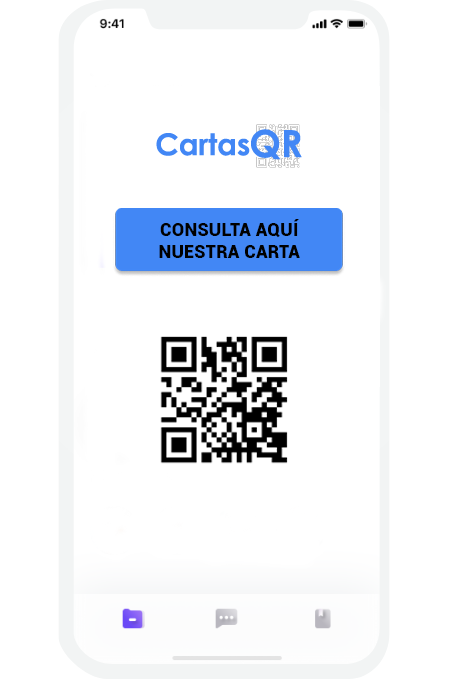
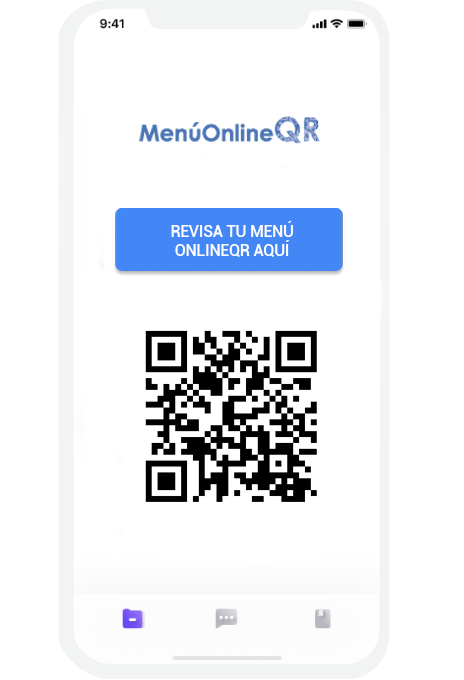
actualizado 2205

Changed region(s): [[0.3017, 0.4632, 0.694, 0.7412], [0.3319, 0.3088, 0.6638, 0.4015], [0.3017, 0.1544, 0.694, 0.2471]]

diff --git a/index.html b/index.html
@@ -13,10 +13,10 @@
     <meta name="robots" content="index, follow">
     <meta name="keywords"
         content="Cartas digitales, Menús digitales, restaurantes y bares con qr, cartas online, menús online, código qr">
-    <meta name="author" content="CartasQR">
+    <meta name="author" content="MenúOnlineQR">
     <link rel="shortcut icon" type="image/x-icon" href="./img/7205qr.ico">
 
-    <title>CartaQR | Tu Carta digital</title>
+    <title>MenúOnlineQR | Tu Menú Online</title>
 
     <!-- CSS here -->
     <link rel="stylesheet" href="css/bootstrap.min.css">
@@ -40,7 +40,7 @@
                         <div class="col-xl-3 col-lg-2">
                             <div class="logo">
                                 <a href="index.html">
-                                    <img src="img/logo.png" alt="CartasQR">
+                                    <img src="img/logo.png" alt="MenúOnlineQR">
                                 </a>
                             </div>
                         </div>
@@ -88,7 +88,7 @@
                     </div>
                     <div class="col-xl-5 col-md-6">
                         <div class="phone_thumb wow fadeInDown" data-wow-duration="1.1s" data-wow-delay=".2s">
-                            <img src="img/ilstrator/phone.png" alt="CartasQR">
+                            <img src="img/ilstrator/phone.png" alt="MenúOnlineQR">
                         </div>
                     </div>
                 </div>
@@ -104,13 +104,13 @@
                 <div class="row align-items-center">
                     <div class="col-xl-5 col-lg-5 col-md-6">
                         <div class="features_info2">
-                            <h3>Tu <strong>Carta QR</strong> siempre actualizada.</h3>
-                            <p><strong>CartasQR</strong> hace posible de una forma ágil y sencilla la lectura y
+                            <h3>Tu <strong>Menú OnlineQR</strong> siempre actualizado.</h3>
+                            <p><strong>Menú OnlineQR</strong> hace posible de una forma ágil y sencilla la lectura y
                                 visualización de los menús desde los propios dispositivos móviles de los clientes a
                                 través de un QR. Cumplimos con la normativa relacionada con la <strong>prohibición de
                                     disponer de cartas físicas en el local</strong>.</p>
                             <div class="about_btn">
-                                <a class="boxed-btn4" href="contacto.html">Obtén tu Carta QR</a>
+                                <a class="boxed-btn4" href="contacto.html">Obtén tu Menú OnlineQR</a>
                             </div>
                         </div>
                     </div>
@@ -126,20 +126,20 @@
                     <div class="col-xl-5 col-lg-5 offset-xl-1 offset-lg-1 col-md-6">
                         <div id="conocer" class="about_image wow fadeInLeft" data-wow-duration=".4s"
                             data-wow-delay=".3s">
-                            <img src="img/ilstrator/phone.png" alt="Carta QR">
+                            <img src="img/ilstrator/phone.png" alt="MenúOnlineQR">
                         </div>
                     </div>
                     <div class="col-xl-6 col-lg-6 col-md-6">
                         <div class="features_info">
                             <h3 class="wow fadeInUp" data-wow-duration=".5s" data-wow-delay=".3s">Beneficios</h3>
                             <p class="wow fadeInUp" data-wow-duration=".6s" data-wow-delay=".4s">Podrás mostrar con un
-                                código QR tu carta sin necesidad de una carta física. Aplica para restaurantes, bares,
+                                código QR tu menú sin necesidad de una carta física. Aplica para restaurantes, bares,
                                 hoteles, cafeterías o heladerías. </p>
                             <ul>
                                 <li class="wow fadeInUp" data-wow-duration=".7s" data-wow-delay=".5s">Olvídate de los
-                                    errores/erratas en tu Carta QR.</li>
-                                <li class="wow fadeInUp" data-wow-duration=".8s" data-wow-delay=".6s">Tu Carta siempre
-                                    actualizada.</li>
+                                    errores/erratas en tu Menú OnlineQR.</li>
+                                <li class="wow fadeInUp" data-wow-duration=".8s" data-wow-delay=".6s">Tu Menú siempre
+                                    actualizado.</li>
                                 <li class="wow fadeInUp" data-wow-duration=".9s" data-wow-delay=".7s">Posibilidad de
                                     realizar publicidad de otros negocios.</li>
                                 <li class="wow fadeInUp" data-wow-duration=".9s" data-wow-delay=".7s">Mantén
@@ -149,7 +149,7 @@
                             </ul>
 
                             <div class="about_btn wow fadeInUp" data-wow-duration=".10s" data-wow-delay=".8s">
-                                <a class="boxed-btn4" href="contacto.html">Contrata tu Carta QR</a>
+                                <a class="boxed-btn4" href="contacto.html">Contrata tu Menú OnlineQR</a>
                             </div>
                         </div>
                     </div>
@@ -197,9 +197,9 @@
                 <div class="col-lg-3 col-md-3">
                     <div class="single_service text-center wow fadeInUp" data-wow-duration=".7s" data-wow-delay=".5s">
                         <div class="thumb">
-                            <img src="img/icon/3.svg" alt="Carta Interactiva">
+                            <img src="img/icon/3.svg" alt="MenúOnlineQR">
                         </div>
-                        <h3><strong>Carta Interactiva</strong></h3>
+                        <h3><strong>Menú Interactivo</strong></h3>
                         <br>
                         <p>Puede incluir las fotografías de todos los platos que ofrece su negocio o añadir información
                             extra sobre alérgenos.</p>
@@ -232,7 +232,7 @@
                 <div class="col-xl-12">
                     <div class="section_title text-center wow fadeInUp" data-wow-duration=".5s" data-wow-delay=".5s">
                         <h3><strong>PLAN ÚNICO</strong></h3>
-                        <p>Olvídate de pagar mensualmente por tu Carta digital.</p>
+                        <p>Olvídate de pagar mensualmente por tu Menú OnlineQR.</p>
                     </div>
                 </div>
             </div>
@@ -244,14 +244,14 @@
                             <span>150€</span>
                         </div>
                         <ul>
-                            <li>Activación carta digital</li>
+                            <li>Activación Menú OnlineQR</li>
                             <li>Carta personalizada</li>
                             <li>Entrega de pegatina código QR</li>
-                            <li>Mantenimiento de carta*</li>
+                            <li>Mantenimiento de Menú*</li>
                             <li>Sin compromiso mensual</li>
                         </ul>
                         <div class="prising_bottom">
-                            <a href="contacto.html" class="get_now prising_btn">Contrata tu Carta QR</a>
+                            <a href="contacto.html" class="get_now prising_btn">Contrata tu Menú OnlineQR</a>
                         </div>
                     </div>
                 </div>
@@ -283,7 +283,7 @@
                         <div class="footer_widget">
                             <div class="footer_logo">
                                 <a href="#">
-                                    <img src="img/logo.png" alt="Carta QR">
+                                    <img src="img/logo.png" alt="MenúOnlineQR">
                                 </a>
                             </div>
                             <p>Una forma ágil y sencilla de lectura y visualización de los menús desde los propios

diff --git a/contacto.html b/contacto.html
@@ -13,20 +13,16 @@
     <meta name="robots" content="index, follow">
     <meta name="keywords"
         content="Cartas digitales, Menús digitales, restaurantes y bares con qr, cartas online, menús online, código qr">
-    <meta name="author" content="CartasQR">
+    <meta name="author" content="MenúOnlineQR">
     <link rel="shortcut icon" type="image/x-icon" href="./img/7205qr.ico">
 
-    <title>CartaQR | Tu Carta digital</title>
+    <title>MenúOnlineQR | Tu Menú Online</title>
 
     <!-- CSS here -->
     <link rel="stylesheet" href="css/bootstrap.min.css">
     <link rel="stylesheet" href="css/owl.carousel.min.css">
-    <link rel="stylesheet" href="css/magnific-popup.css">
     <link rel="stylesheet" href="css/font-awesome.min.css">
-    <link rel="stylesheet" href="css/themify-icons.css">
     <link rel="stylesheet" href="css/nice-select.css">
-    <link rel="stylesheet" href="css/flaticon.css">
-    <link rel="stylesheet" href="css/gijgo.css">
     <link rel="stylesheet" href="css/animate.min.css">
     <link rel="stylesheet" href="css/slick.css">
     <link rel="stylesheet" href="css/slicknav.css">
@@ -44,7 +40,7 @@
                         <div class="col-xl-3 col-lg-2">
                             <div class="logo">
                                 <a href="index.html">
-                                    <img src="img/logo.png" alt="CartasQR">
+                                    <img src="img/logo.png" alt="MenúOnlineQR">
                                 </a>
                             </div>
                         </div>
@@ -80,7 +76,7 @@
             <div class="row">
                 <div class="col-xl-12">
                     <div class="bradcam_text">
-                        <h3>Contrata tu Carta QR</h3>
+                        <h3>Contrata tu Menú OnlineQR</h3>
                     </div>
                 </div>
             </div>
@@ -142,7 +138,7 @@
                         <div class="media contact-info">
                             <div class="media-body">
                                 <span style='font-size:20px;'>&#128233;</span>&nbsp;&nbsp;<a
-                                    href="mailto:info@tucartaqr.com"><strong>info@tucartaqr.com</strong></a>
+                                    href="mailto:info@menuonlineqr.com"><strong>info@menuonlineqr.com</strong></a>
                             </div>
                         </div>
                     </div>

diff --git a/css/style.css b/css/style.css
@@ -1406,10 +1406,10 @@ h3 {
 }
 
 @media (max-width: 767px) {
-  /* line 36, ../../Arafath/CL/CL October/214. App Landing Page/HTML/scss/_features.scss */
   .features_area .features_info2 h3 {
     font-size: 30px;
     line-height: 40px;
+    padding-top: 50px;
   }
 }
 

diff --git a/contact_process.php b/contact_process.php
@@ -1,6 +1,6 @@
 <?php
 
-    $to = "cartaQR.com";
+    $to = "info@menuonlineqr.com";
     $from = $_REQUEST['email'];
     $name = $_REQUEST['name'];
     $subject = $_REQUEST['subject'];
@@ -13,15 +13,15 @@
 	$headers .= "MIME-Version: 1.0\r\n";
 	$headers .= "Content-Type: text/html; charset=ISO-8859-1\r\n";
 
-    $subject = "Tienes un mensaje de CartaQR";
+    $subject = "Tienes un mensaje de Menú OnlineQR";
 
     $logo = 'img/logo.png';
-    $link = '#';
+    $link = 'https://www.menuonlineqr.com/';
 
-	$body = "<!DOCTYPE html><html lang='en'><head><meta charset='UTF-8'><title>Express Mail</title></head><body>";
+	$body = "<!DOCTYPE html><html lang='es'><head><meta charset='UTF-8'><title>Menú OnlineQR</title></head><body>";
 	$body .= "<table style='width: 100%;'>";
 	$body .= "<thead style='text-align: center;'><tr><td style='border:none;' colspan='2'>";
-	$body .= "<a href='{$link}'><img src='{$logo}' alt=''></a><br><br>";
+	$body .= "<a href='{$link}'><img src='{$logo}' alt='Menú OnlineQR'></a><br><br>";
 	$body .= "</td></tr></thead><tbody><tr>";
 	$body .= "<td style='border:none;'><strong>Name:</strong> {$name}</td>";
 	$body .= "<td style='border:none;'><strong>Email:</strong> {$from}</td>";
